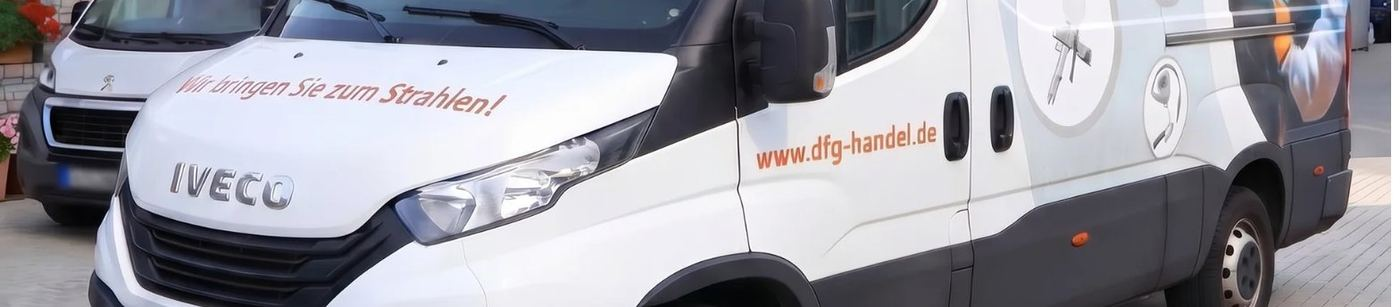
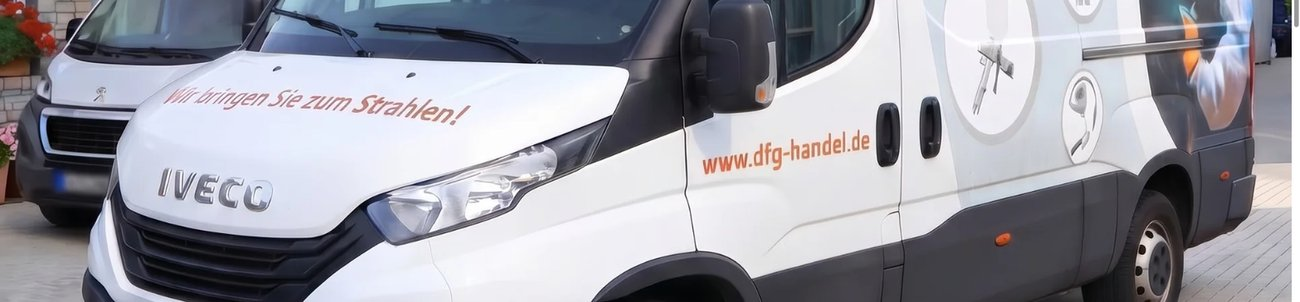
Mobile Ansicht gefixt, schärfere Bilder

diff --git a/index.html b/index.html
@@ -20,7 +20,8 @@
   }
   *{box-sizing:border-box;}
   html{scroll-behavior:smooth;}
-  body{margin:0;font-family:"Public Sans",system-ui,-apple-system,"Segoe UI",sans-serif;color:var(--ink);background:var(--bg);}
+  body{margin:0;font-family:"Public Sans",system-ui,-apple-system,"Segoe UI",sans-serif;color:var(--ink);background:var(--bg);overflow-x:hidden;}
+  input,textarea{min-width:0;}
   h1,h2,h3,.brand{font-family:"Space Grotesk",system-ui,sans-serif;letter-spacing:-0.02em;}
   a{color:inherit;text-decoration:none;}
   img{max-width:100%;display:block;}
@@ -49,11 +50,21 @@
   .navbar{position:sticky;top:0;z-index:50;transition:background .35s ease, backdrop-filter .35s ease, box-shadow .35s ease;}
   .navbar.scrolled{background:rgba(23,22,19,0.92);backdrop-filter:blur(10px);box-shadow:0 1px 0 rgba(255,255,255,0.06);}
   @media (max-width: 900px){
-    section{padding:72px 20px;}
-    .split2{grid-template-columns:1fr !important;}
+    section{padding:64px 20px;}
+    .split2{grid-template-columns:1fr !important;gap:40px !important;}
     .grid3{grid-template-columns:1fr !important;}
-    h1{font-size:38px !important;}
+    .form-row{grid-template-columns:1fr !important;gap:16px !important;}
+    h1{font-size:34px !important;}
     .nav-links{display:none !important;}
+    .contact-card{padding:24px !important;}
+    .px48{padding-left:20px !important;padding-right:20px !important;}
+    .hero-offset{margin-top:0 !important;padding-top:32px !important;min-height:auto !important;padding-bottom:48px !important;}
+    .hero-stats{margin-top:40px !important;gap:32px !important;}
+  }
+  @media (max-width: 480px){
+    .px48{padding-left:16px !important;padding-right:16px !important;}
+    h1{font-size:28px !important;}
+    section{padding:48px 16px;}
   }
 </style>
 </head>
@@ -62,7 +73,7 @@
 <div style="width:100%;background:var(--bg);">
 
   <!-- Utility bar -->
-  <div style="display:flex;justify-content:space-between;align-items:center;padding:9px 48px;background:var(--dark);border-bottom:1px solid rgba(255,255,255,0.06);font-size:12.5px;color:#a6a196;flex-wrap:wrap;gap:8px;">
+  <div class="px48" style="display:flex;justify-content:space-between;align-items:center;padding:9px 48px;background:var(--dark);border-bottom:1px solid rgba(255,255,255,0.06);font-size:12.5px;color:#a6a196;flex-wrap:wrap;gap:8px;">
     <div style="display:flex;gap:24px;align-items:center;flex-wrap:wrap;">
       <span>Carl-Zeiss-Str. 41 · 47445 Moers</span>
       <span style="opacity:0.4;">|</span>
@@ -74,7 +85,7 @@
   </div>
 
   <!-- Nav -->
-  <div class="navbar" id="navbar" style="display:flex;justify-content:space-between;align-items:center;padding:20px 48px;background:transparent;">
+  <div class="navbar px48" id="navbar" style="display:flex;justify-content:space-between;align-items:center;padding:20px 48px;background:transparent;">
     <a href="#top" style="display:flex;align-items:center;gap:13px;">
       <svg width="42" height="42" viewBox="0 0 42 42" style="flex-shrink:0;">
         <rect x="0.5" y="0.5" width="41" height="41" fill="var(--accent)"/>
@@ -94,11 +105,11 @@
   </div>
 
   <!-- Hero -->
-  <div id="top" style="position:relative;min-height:100vh;display:flex;align-items:center;background:var(--dark);overflow:hidden;margin-top:-92px;padding-top:92px;">
+  <div id="top" class="hero-offset" style="position:relative;min-height:100vh;display:flex;align-items:center;background:var(--dark);overflow:hidden;margin-top:-92px;padding-top:92px;">
     <img src="images/hero_van.jpg" alt="DFG Servicefahrzeug" style="position:absolute;inset:0;width:100%;height:100%;object-fit:cover;opacity:0.4;filter:saturate(0.85) contrast(1.05);">
     <div style="position:absolute;inset:0;background:linear-gradient(100deg, var(--dark) 22%, rgba(23,22,19,0.72) 55%, rgba(23,22,19,0.42) 100%);"></div>
     <div style="position:absolute;inset:0;background:radial-gradient(ellipse at 15% 100%, rgba(226,105,26,0.16), transparent 55%);"></div>
-    <div class="wrap" style="position:relative;padding:0 48px;width:100%;">
+    <div class="wrap px48" style="position:relative;padding:0 48px;width:100%;">
       <div style="max-width:800px;">
         <div class="eyebrow on-dark" style="color:#ff9a4d;">Seit 1981 in Moers</div>
         <h1 style="color:#fff;font-size:clamp(40px, 5.6vw, 78px);line-height:1.04;margin:22px 0 26px;">Ihr Partner für Sandstrahl-, Druckluft- und Airlesstechnik</h1>
@@ -108,7 +119,7 @@
           <a class="btn btn-ghost" href="#leistungen">Unsere Leistungen</a>
         </div>
       </div>
-      <div style="display:flex;gap:56px;margin-top:96px;flex-wrap:wrap;">
+      <div class="hero-stats" style="display:flex;gap:56px;margin-top:96px;flex-wrap:wrap;">
         <div>
           <div class="stat" data-target="40" style="font-family:'Space Grotesk',sans-serif;font-weight:700;font-size:38px;color:#fff;">0<span style="color:var(--accent);">+</span></div>
           <div style="font-size:13px;color:#93897a;margin-top:6px;letter-spacing:0.03em;">Jahre Erfahrung</div>
@@ -195,7 +206,7 @@
       </div>
       <div style="position:relative;">
         <div style="position:absolute;top:-24px;left:-24px;width:100%;height:100%;border:1.5px solid var(--accent);z-index:0;"></div>
-        <img src="images/product_gun.jpg" alt="Airlesspistole aus dem DFG Sortiment" style="position:relative;z-index:1;width:100%;height:420px;object-fit:cover;filter:saturate(0.92) contrast(1.05);">
+        <img src="images/product_gun.jpg" alt="Airlessschlauch aus dem DFG Sortiment" style="position:relative;z-index:1;width:100%;height:420px;object-fit:cover;filter:saturate(0.92) contrast(1.05);">
       </div>
     </div>
   </section>
@@ -204,13 +215,13 @@
   <section style="padding:0;">
     <div class="wrap split2 reveal" style="display:grid;grid-template-columns:0.95fr 1.05fr;gap:0;background:var(--dark);position:relative;overflow:hidden;">
       <div class="noise"></div>
-      <div style="position:relative;padding:88px 64px;display:flex;flex-direction:column;justify-content:center;">
+      <div class="px48" style="position:relative;padding:88px 64px;display:flex;flex-direction:column;justify-content:center;">
         <div class="eyebrow on-dark" style="color:#ff9a4d;">Online-Shop</div>
         <h2 style="color:#fff;font-size:clamp(24px,2.6vw,32px);margin:16px 0 18px;">Rund um die Uhr bestellen auf steflow.shop</h2>
         <p style="color:#c9c5bc;font-size:16px;line-height:1.7;margin:0 0 32px;">Ein Großteil unseres Sortiments – von Druckluft- über Sandstrahl- bis Airlesszubehör und Arbeitsschutz – finden Sie jederzeit in unserem Online-Shop.</p>
         <a class="btn btn-primary" href="https://www.steflow.shop" target="_blank" rel="noopener" style="width:fit-content;">steflow.shop besuchen</a>
       </div>
-      <img src="images/product_nozzles.jpg" alt="Sandstrahl- und Airlesszubehör" style="width:100%;height:100%;min-height:320px;object-fit:cover;filter:saturate(0.9) contrast(1.05);">
+      <img src="images/product_nozzles.jpg" alt="Arbeitsschutzhandschuhe aus dem DFG Sortiment" style="width:100%;height:100%;min-height:320px;object-fit:cover;filter:saturate(0.9) contrast(1.05);">
     </div>
   </section>
 
@@ -238,11 +249,11 @@
         </div>
       </div>
 
-      <div class="card" style="padding:40px;position:relative;">
+      <div class="card contact-card" style="padding:40px;position:relative;">
         <form id="contact-form" style="display:flex;flex-direction:column;gap:18px;">
           <input type="text" name="_honey" style="display:none" tabindex="-1" autocomplete="off">
           <input type="hidden" name="_subject" value="Neue Anfrage über die DFG-Website">
-          <div style="display:grid;grid-template-columns:1fr 1fr;gap:18px;">
+          <div class="form-row" style="display:grid;grid-template-columns:1fr 1fr;gap:18px;">
             <label style="display:flex;flex-direction:column;gap:7px;font-size:13.5px;font-weight:600;color:var(--ink);">
               Name *
               <input required name="name" type="text" placeholder="Ihr Name" style="padding:13px 14px;border:1px solid var(--line);font-size:14.5px;font-family:inherit;background:var(--bg);">
@@ -268,7 +279,7 @@
   </section>
 
   <!-- CTA strip -->
-  <div class="reveal" style="background:var(--dark);padding:64px 48px;text-align:center;position:relative;overflow:hidden;">
+  <div class="reveal px48" style="background:var(--dark);padding:64px 48px;text-align:center;position:relative;overflow:hidden;">
     <div class="noise"></div>
     <div style="position:relative;">
       <h2 style="color:#fff;font-size:clamp(22px,2.6vw,30px);margin:0 0 24px;">Bereit für ein individuelles Angebot?</h2>
@@ -277,7 +288,7 @@
   </div>
 
   <!-- Footer -->
-  <div style="background:var(--dark);padding:32px 48px;">
+  <div class="px48" style="background:var(--dark);padding:32px 48px;">
     <div class="wrap" style="display:flex;justify-content:space-between;align-items:center;flex-wrap:wrap;gap:16px;border-top:1px solid rgba(255,255,255,0.08);padding-top:24px;">
       <div style="color:#75705f;font-size:12.5px;">© 2026 DFG Handels GmbH · Carl-Zeiss-Str. 41 · 47445 Moers · HRB 11270 Moers</div>
       <div style="display:flex;gap:24px;">
